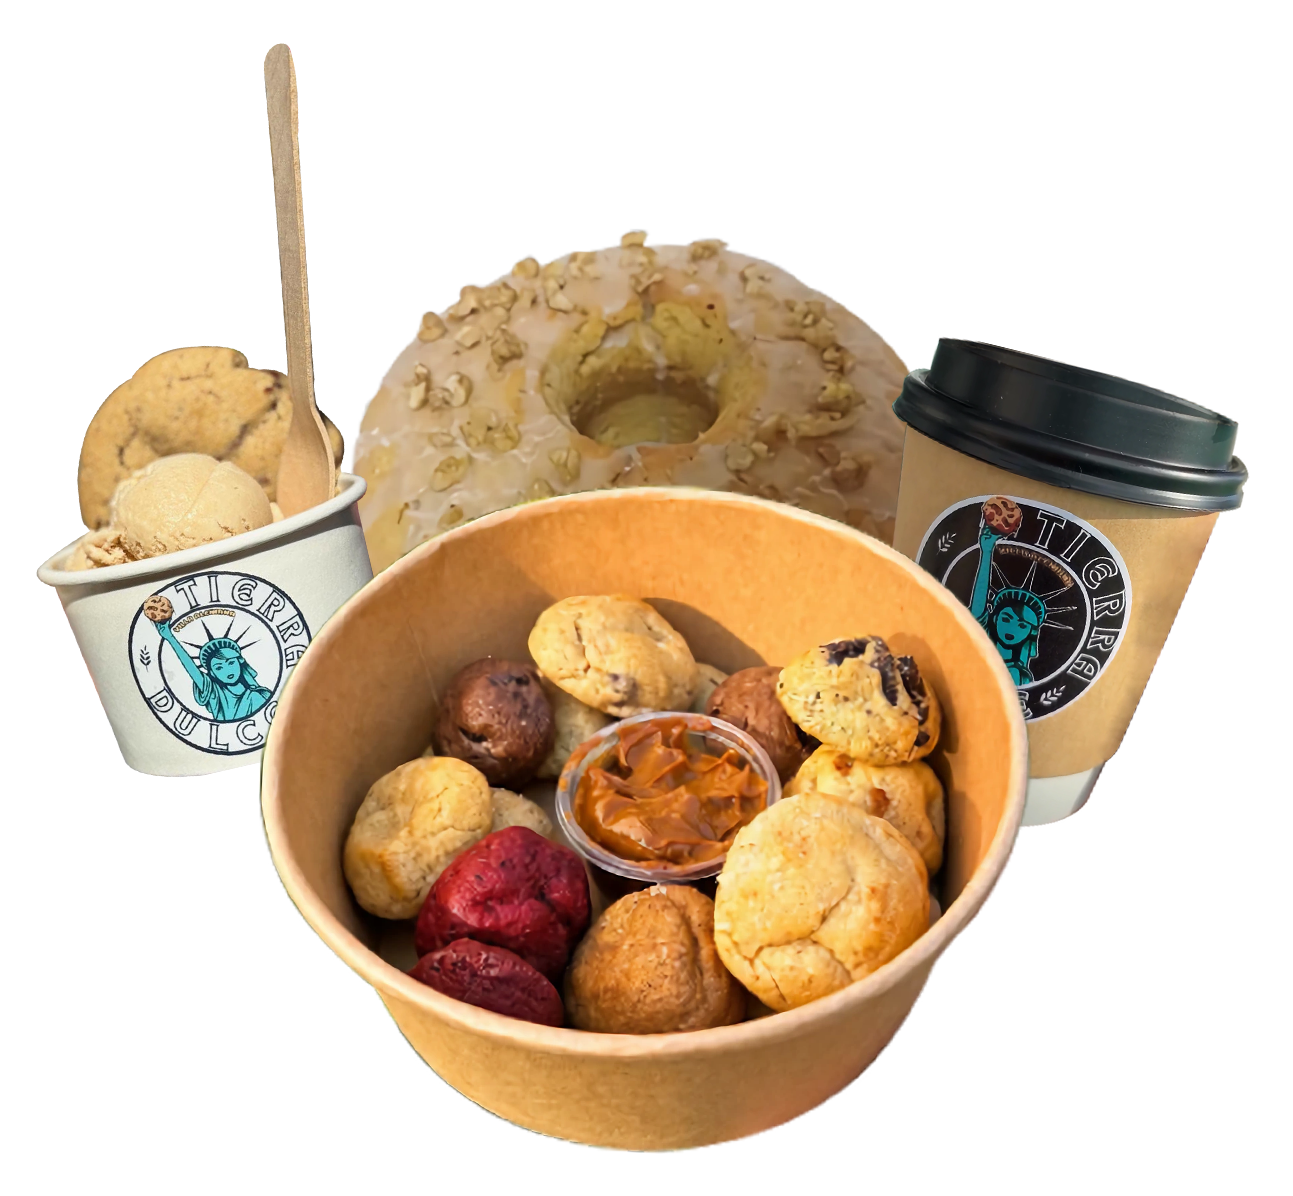
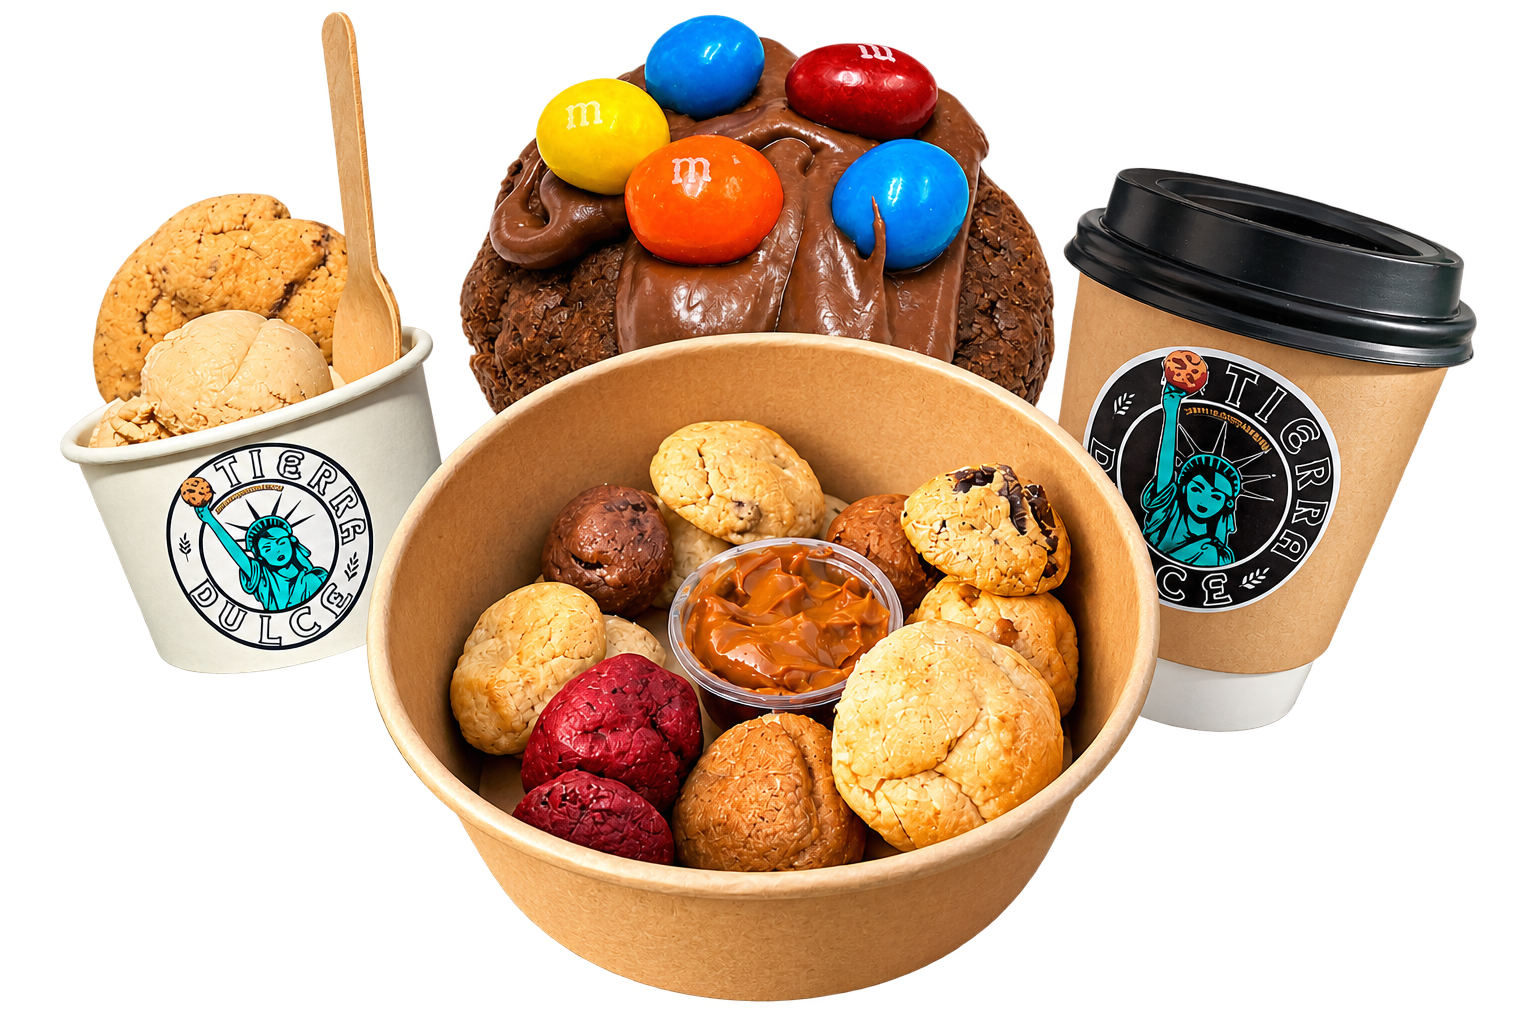
feat: refine catalog image and hover fix for v0.2

diff --git a/src/data/products.js b/src/data/products.js
@@ -14,8 +14,7 @@ export const products = [
   { id: 'tiramisu-cookie', name: 'Tiramisú Cookie', category: 'cookies', categoryLabel: 'Cookies', description: 'Un toque de café, galleta italiana remojada en café de especialidad y topping de queso crema.', image: '/images/products/Tiramisu_cookie.png', imageAlt: 'Tiramisú Cookie con café y queso crema de Tierra Dulce', imageWidth: 1086, imageHeight: 1086 },
   { id: 'galleta-mm', name: 'Galleta M&M', category: 'cookies', categoryLabel: 'Cookies', description: 'Cookie con Nutella y M&M: chocolate, color y mucho sabor en cada mordida.', image: '/images/products/Galleta_M&M.png', imageAlt: 'Cookie con Nutella y M&M de Tierra Dulce', imageWidth: 1086, imageHeight: 1086 },
   { id: 'cookies-and-cream', name: 'Cookies & Cream', category: 'cookies', categoryLabel: 'Cookies', description: 'Cookie con trozos de Oreo y un corazón de manjar. Un clásico con sello Tierra Dulce.', image: '/images/products/Cookies_and_cream.png', imageAlt: 'Cookies and Cream con Oreo y relleno de manjar de Tierra Dulce', imageWidth: 1123, imageHeight: 1123 },
-  // TODO: Reemplazar la imagen temporal de Choco Avellana por el PNG definitivo cuando sea entregado.
-  { id: 'choco-avellana', name: 'Choco Avellana', category: 'cookies', categoryLabel: 'Cookies', description: 'Galleta con trozos de chocolate semi amargo y un irresistible relleno de Nutella.', image: fallbackImage, imageAlt: 'Cookie Choco Avellana con chocolate semi amargo y relleno de Nutella de Tierra Dulce', imageWidth: 2570, imageHeight: 2184, isPlaceholder: true },
+  { id: 'choco-avellana', name: 'Choco Avellana', category: 'cookies', categoryLabel: 'Cookies', description: 'Galleta con trozos de chocolate semi amargo y un irresistible relleno de Nutella.', image: '/images/products/choco_avellana.png', imageAlt: 'Cookie Choco Avellana con chocolate semi amargo y relleno de Nutella de Tierra Dulce', imageWidth: 1023, imageHeight: 818 },
   { id: 'rollo-clasico', name: 'Clásico', category: 'rollos', categoryLabel: 'Rollos de Canela', description: 'El sabor tradicional del rollo de canela, suave y perfecto para acompañar cualquier momento.', image: fallbackImage, imageAlt: 'Rollo de canela Clásico de Tierra Dulce', imageWidth: 2570, imageHeight: 2184, isPlaceholder: true },
   { id: 'rollo-oreo', name: 'Oreo', category: 'rollos', categoryLabel: 'Rollos de Canela', description: 'Una versión del rollo de canela con el toque inconfundible de Oreo.', image: fallbackImage, imageAlt: 'Rollo de canela variedad Oreo de Tierra Dulce', imageWidth: 2570, imageHeight: 2184, isPlaceholder: true },
   { id: 'rollo-dubai', name: 'Dubai', category: 'rollos', categoryLabel: 'Rollos de Canela', description: 'Una versión especial inspirada en los sabores que hacen de Dubai una de nuestras combinaciones más llamativas.', image: fallbackImage, imageAlt: 'Rollo de canela variedad Dubai de Tierra Dulce', imageWidth: 2570, imageHeight: 2184, isPlaceholder: true },
